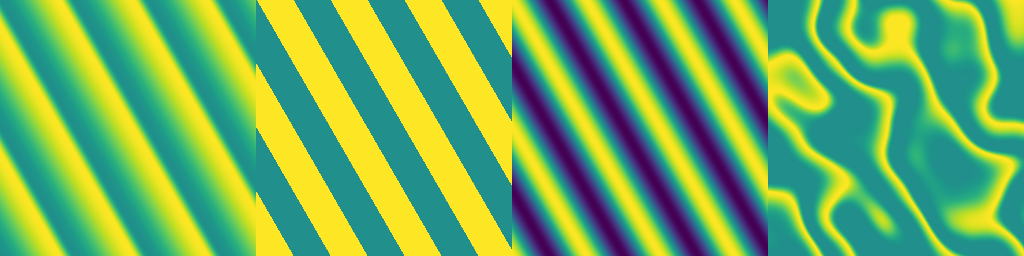
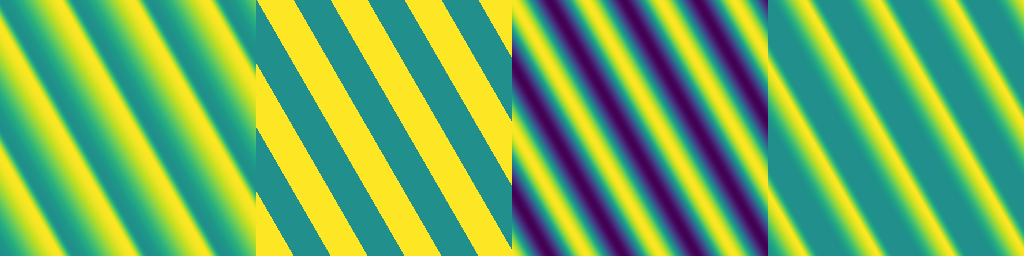
Reverting add phase shift to wave_dnue (useless)

Changed region(s): [[0.75, 0.0, 1.0, 1.0]]

diff --git a/src/primitives/primitives.cpp b/src/primitives/primitives.cpp
@@ -273,7 +273,6 @@ Array wave_dune(Vec2<int>   shape,
                 float       xbottom,
                 float       phase_shift,
                 Array      *p_noise,
-                Array      *p_shift,
                 Vec2<float> shift,
                 Vec2<float> scale)
 {
@@ -305,28 +304,13 @@ Array wave_dune(Vec2<int>   shape,
   };
 
   if (p_noise != nullptr)
-  {
-    if (p_shift != nullptr)
-      for (int i = 0; i < array.shape.x; i++)
-        for (int j = 0; j < array.shape.y; j++)
-          array(i, j) = lambda(ca * x[i] + sa * y[j] + (*p_noise)(i, j) +
-                               (*p_shift)(i, j));
-    else
-      for (int i = 0; i < array.shape.x; i++)
-        for (int j = 0; j < array.shape.y; j++)
-          array(i, j) = lambda(ca * x[i] + sa * y[j] + (*p_noise)(i, j));
-  }
+    for (int i = 0; i < array.shape.x; i++)
+      for (int j = 0; j < array.shape.y; j++)
+        array(i, j) = lambda(ca * x[i] + sa * y[j] + (*p_noise)(i, j));
   else
-  {
-    if (p_shift != nullptr)
-      for (int i = 0; i < array.shape.x; i++)
-        for (int j = 0; j < array.shape.y; j++)
-          array(i, j) = lambda(ca * x[i] + sa * y[j] + (*p_shift)(i, j));
-    else
-      for (int i = 0; i < array.shape.x; i++)
-        for (int j = 0; j < array.shape.y; j++)
-          array(i, j) = lambda(ca * x[i] + sa * y[j]);
-  }
+    for (int i = 0; i < array.shape.x; i++)
+      for (int j = 0; j < array.shape.y; j++)
+        array(i, j) = lambda(ca * x[i] + sa * y[j]);
 
   return array;
 }

diff --git a/include/highmap/primitives.hpp b/include/highmap/primitives.hpp
@@ -860,7 +860,6 @@ Array value_noise_thinplate(Vec2<int>   shape,
  * @param phase_shift Phase shift (in radians).
  * @param p_noise Reference to the input noise array used for domain warping
  * (NOT in pixels, with respect to a unit domain).
- * @param p_phase Reference to the input noise array used for the phase shift
  * @param shift Shift {xs, ys} for each directions.
  * @param scale Domain scaling, in [0, 1].
  * @return Array New array.
@@ -872,7 +871,6 @@ Array wave_dune(Vec2<int>   shape,
                 float       xbottom,
                 float       phase_shift = 0.f,
                 Array      *p_noise = nullptr,
-                Array      *p_shift = nullptr,
                 Vec2<float> shift = {0.f, 0.f},
                 Vec2<float> scale = {1.f, 1.f});
 

diff --git a/examples/ex_wave/ex_wave.cpp b/examples/ex_wave/ex_wave.cpp
@@ -12,12 +12,11 @@ int main(void)
   uint  seed = 1;
 
   auto noise = 0.1f * hmap::fbm_perlin(shape, {kw, kw}, seed, 8, 0.f);
-  auto phase = 0.2f * hmap::perlin(shape, {kw, kw}, seed);
 
   auto zt = hmap::wave_triangular(shape, kw, angle, 0.8f);
   auto zq = hmap::wave_square(shape, kw, angle);
   auto zs = hmap::wave_sine(shape, kw, angle);
-  auto zd = hmap::wave_dune(shape, kw, angle, 0.5f, 0.7f, 0.f, nullptr, &phase);
+  auto zd = hmap::wave_dune(shape, kw, angle, 0.5f, 0.7f, 0.f);
 
   auto ztn = hmap::wave_triangular(shape, kw, angle, 0.8f, 0.f, &noise);
   auto zqn = hmap::wave_square(shape, kw, angle, 0.f, &noise);
